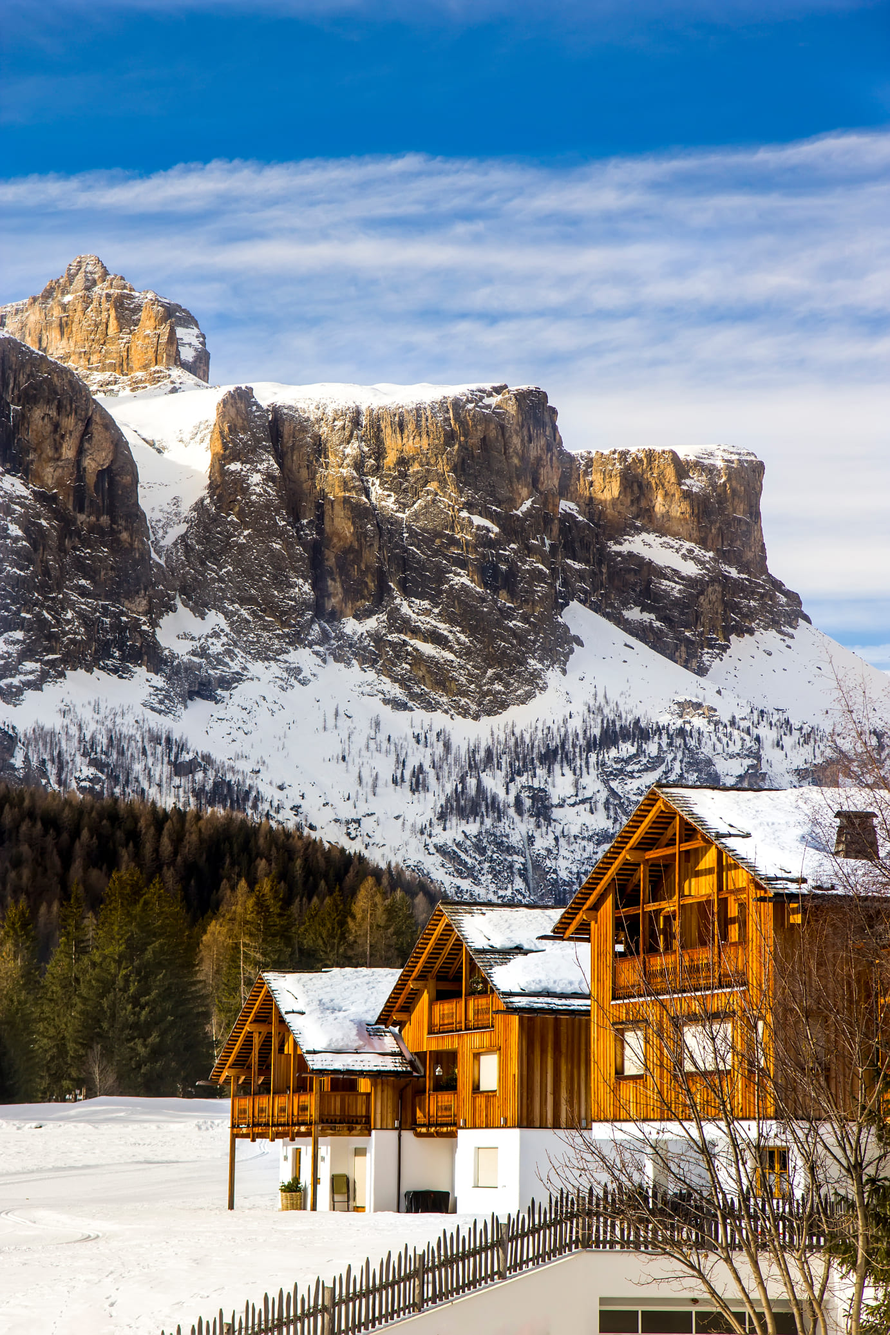
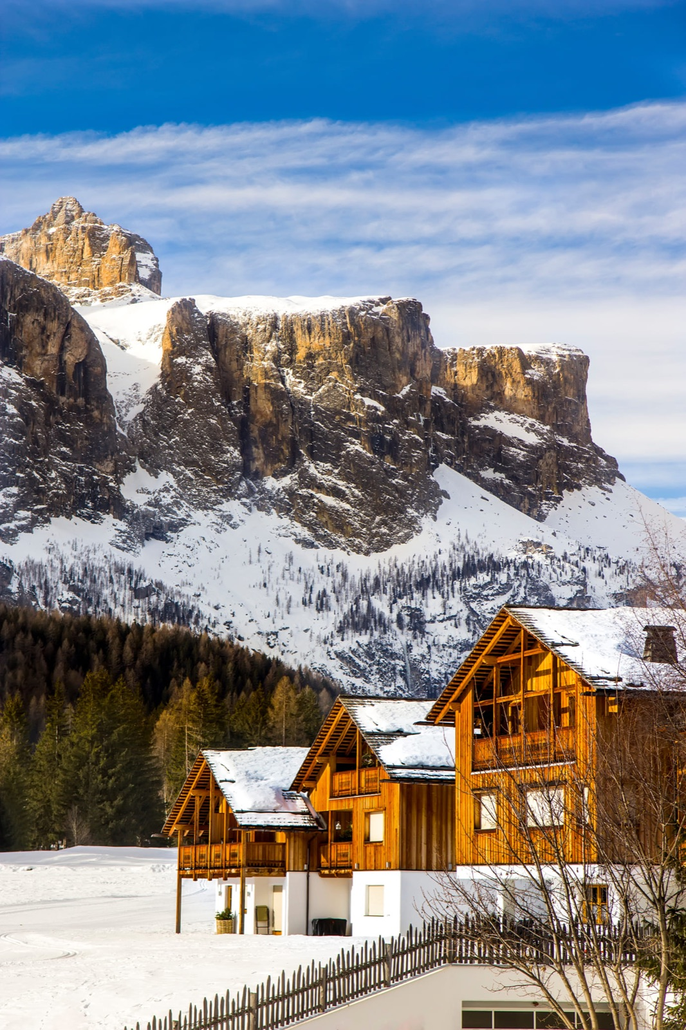
fix(cloudflare): serve images unoptimized and harden response headers
Image transformations are billed past the free monthly allowance, and every
next/image breakpoint across ~112 photos counted as one. Drop the IMAGES
binding and set images.unoptimized so files are served straight from the asset
binding, which is free and unmetered. Downscale the two oversized sources; the
rest are already sized for the layout.

Also add HSTS and a Content-Security-Policy. Next inlines its bootstrap script,
so script-src keeps 'unsafe-inline'; the restrictions that matter here are
object-src, base-uri, form-action and a frame-src limited to the Maps embed.

diff --git a/next.config.ts b/next.config.ts
@@ -1,5 +1,25 @@
 import type { NextConfig } from "next";
 
+// Content-Security-Policy. Next inlines its bootstrap script and Tailwind emits
+// inline styles, so script/style keep 'unsafe-inline'; the value here is in the
+// directives that can't be relaxed away — frame-ancestors, form-action, base-uri
+// and a frame-src that only admits the Google Maps embed.
+const CSP = [
+  "default-src 'self'",
+  "script-src 'self' 'unsafe-inline'",
+  "style-src 'self' 'unsafe-inline'",
+  "img-src 'self' data: blob: https://images.unsplash.com https://plus.unsplash.com",
+  "media-src 'self'",
+  "font-src 'self' data:",
+  "connect-src 'self'",
+  "frame-src https://www.google.com https://maps.google.com",
+  "frame-ancestors 'self'",
+  "form-action 'self'",
+  "base-uri 'self'",
+  "object-src 'none'",
+  "upgrade-insecure-requests",
+].join("; ");
+
 // Applied to worker-rendered responses. public/_headers covers the same ground
 // for files served straight from Cloudflare's asset binding.
 const SECURITY_HEADERS = [
@@ -10,6 +30,11 @@ const SECURITY_HEADERS = [
     key: "Permissions-Policy",
     value: "camera=(), microphone=(), geolocation=(), interest-cohort=()",
   },
+  {
+    key: "Strict-Transport-Security",
+    value: "max-age=31536000; includeSubDomains",
+  },
+  { key: "Content-Security-Policy", value: CSP },
 ];
 
 const nextConfig: NextConfig = {
@@ -17,6 +42,10 @@ const nextConfig: NextConfig = {
     return [{ source: "/:path*", headers: SECURITY_HEADERS }];
   },
   images: {
+    // Cloudflare bills image transformations beyond the free monthly allowance,
+    // so images are served as-is from the asset binding, which is free.
+    // The sources in public/ are already sized for the layout.
+    unoptimized: true,
     remotePatterns: [
       { protocol: "https", hostname: "images.unsplash.com" },
       { protocol: "https", hostname: "plus.unsplash.com" },
